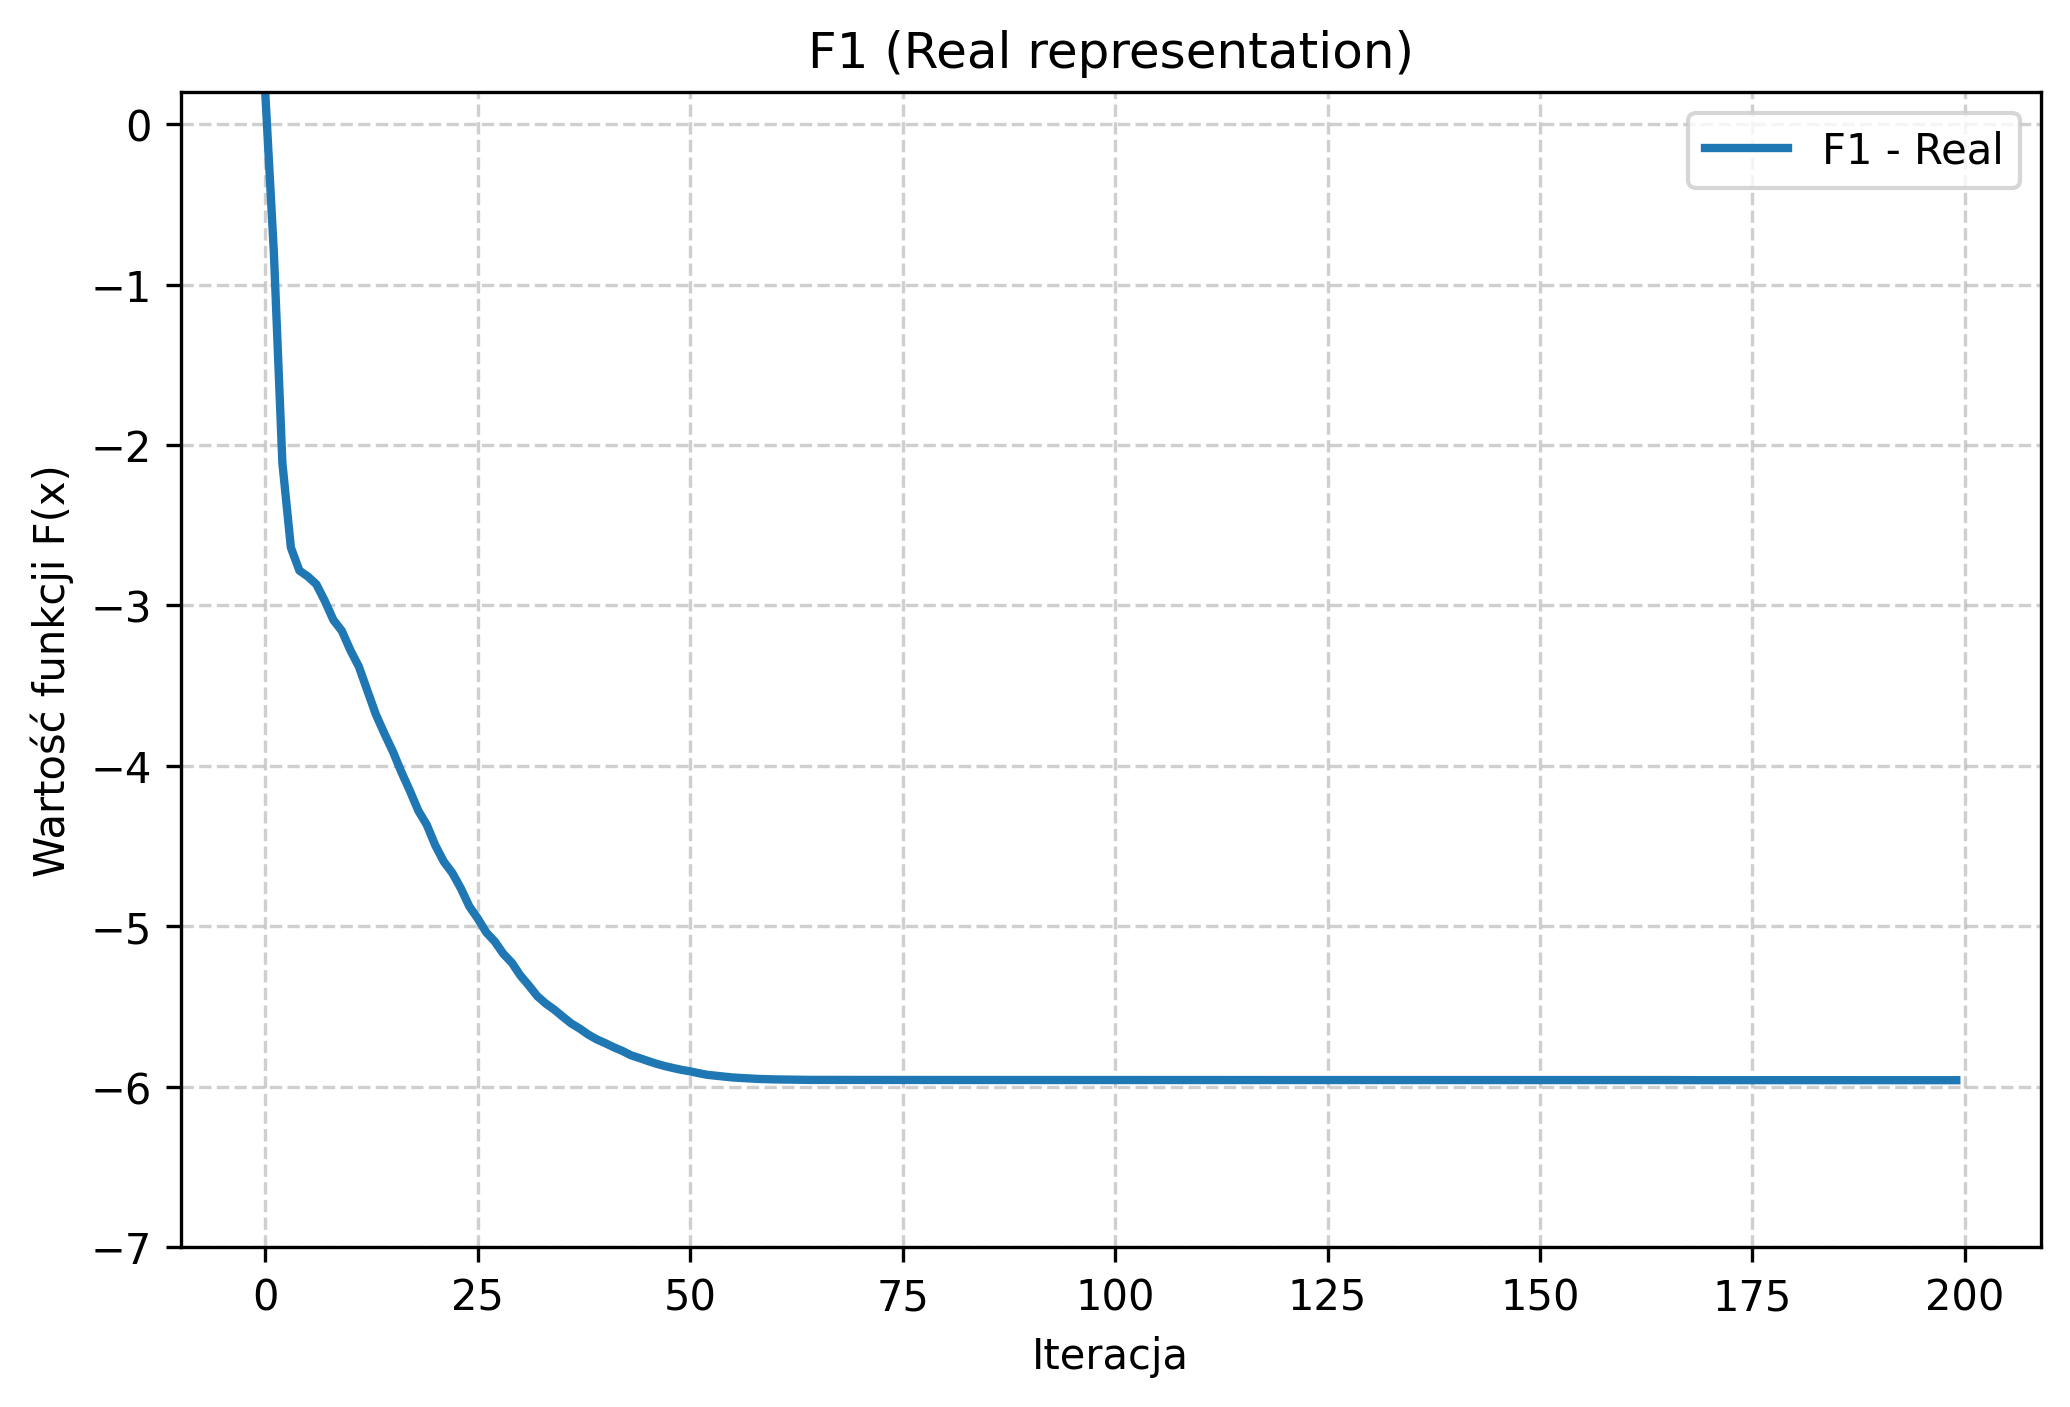
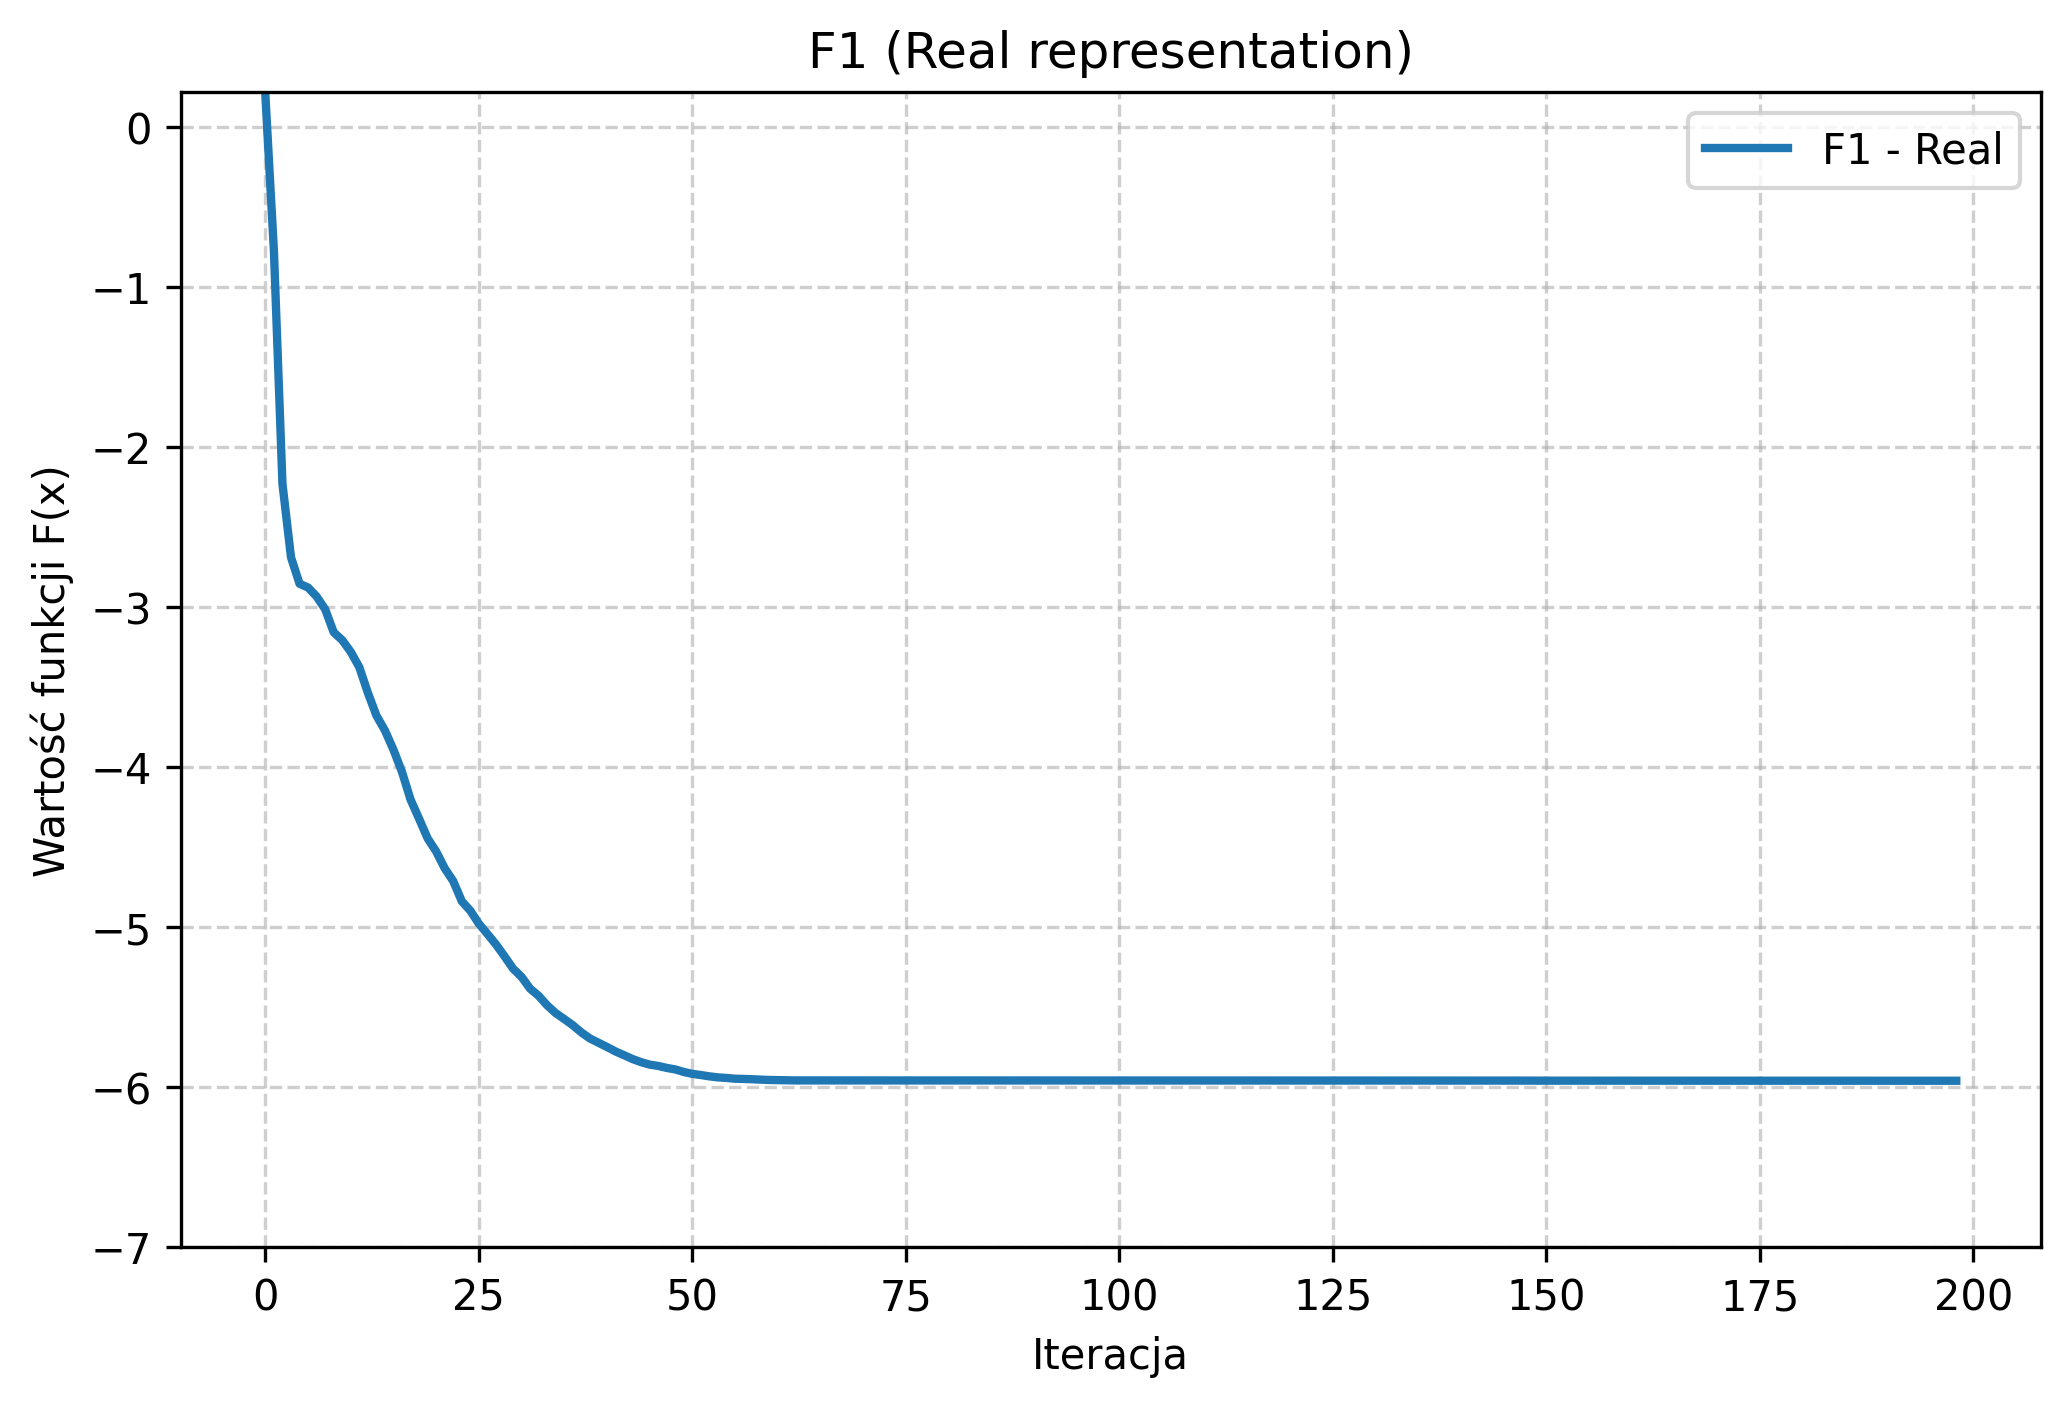
zadanie 4 dla real - poprawiono liczenie kredytów

diff --git a/Zadanie_4/src/main.cpp b/Zadanie_4/src/main.cpp
@@ -17,12 +17,12 @@ struct Config {
     double high = 3.0;         // górna granica
     double sigma0 = 0.1;       // początkowa wartosc sigma
     double sigma_min = 1e-4;   // minimalna wartosc sigma
-    double sigma_max = high/3;    // maksymalna wartosc sigma
+    double sigma_max = high / 3;    // maksymalna wartosc sigma
     double p_jump = 0.1;       // szansa na duży skok (Cauchy)
     double crossoverProb = 0.8;// prawdopodobieństwo krzyżowania
     double tournamentP = 0.8;  // prawdopodobieństwo zwycięstwa lepszego osobnika
     int eliteCount = 2;        // ilu najlepszych zachować
-    int T_max = 10000;         // maksymalna liczba pokoleń
+    int T_max = 10000;         // liczba kredytów
     int stagnationLimit = 50;  // liczba generacji bez poprawy przed restartem
 };
 
@@ -198,8 +198,11 @@ std::vector<double> run_GA_real(double (*objective)(const Individual&), const Co
     //Inicjalizacja populacji
     auto population = initializePopulation(cfg);
     std::vector<double> fitness(cfg.popSize);
-    for (int i = 0; i < cfg.popSize; ++i)
+    int credits = cfg.T_max;
+    for (int i = 0; i < cfg.popSize; ++i) {
         fitness[i] = evaluate(population[i], objective);
+        credits--;
+    }
 
     double sigma = cfg.sigma0;
     double bestFitness = *std::min_element(fitness.begin(), fitness.end());
@@ -207,7 +210,7 @@ std::vector<double> run_GA_real(double (*objective)(const Individual&), const Co
     int stagnationCounter = 0;
 
     //Główna pętla
-    for (int t = 0; t < cfg.T_max - 1;) {
+    for (int t = 0; t < credits;) {
 
         //Selekcja + tworzenie nowej populacji
         std::vector<Individual> offspring;
@@ -276,14 +279,6 @@ std::vector<double> run_GA_real(double (*objective)(const Individual&), const Co
             stagnationCounter = 0;
             sigma = cfg.sigma_max;
         }
-
-        //Log
-        std::cout << "Iteracja " << t
-            << "  best=" << bestFitness
-            << "  sigma=" << sigma
-            << "  success=" << successRate
-            << std::endl;
-
         history.push_back(bestFitness);
     }
 
@@ -313,6 +308,6 @@ int main() {
         for (double val : history) out_real << val << "\n";
         out_real.close();
     }
-    
+
     return 0;
 }
